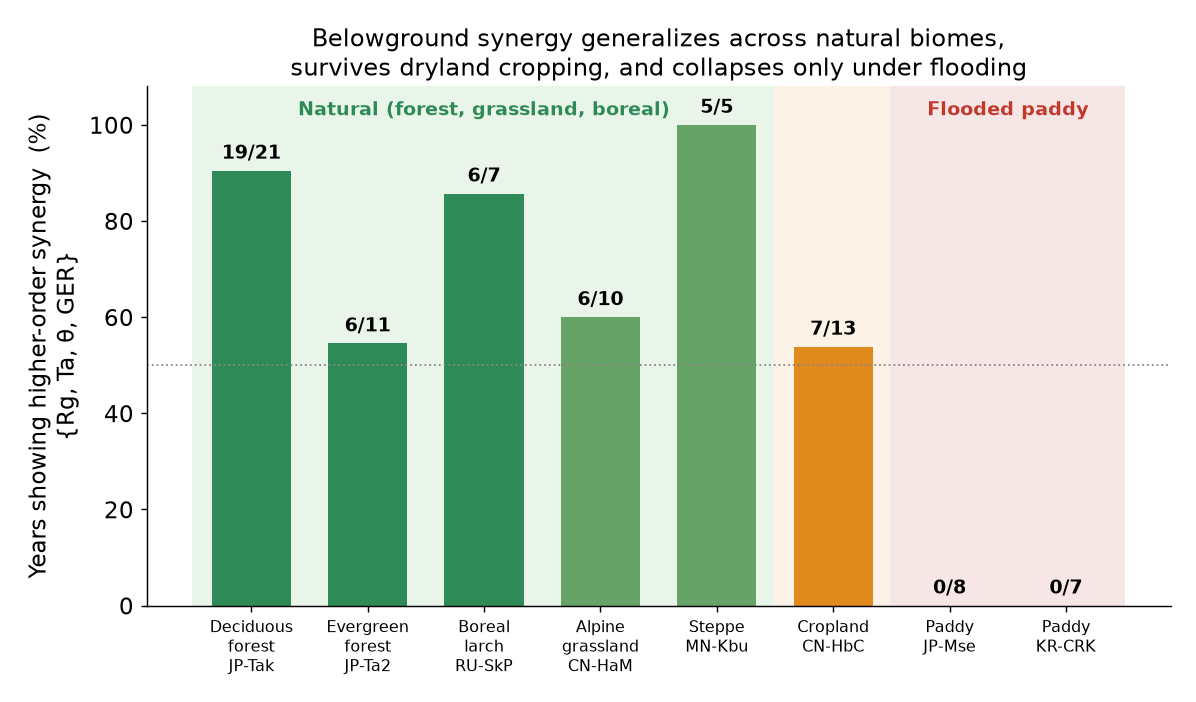
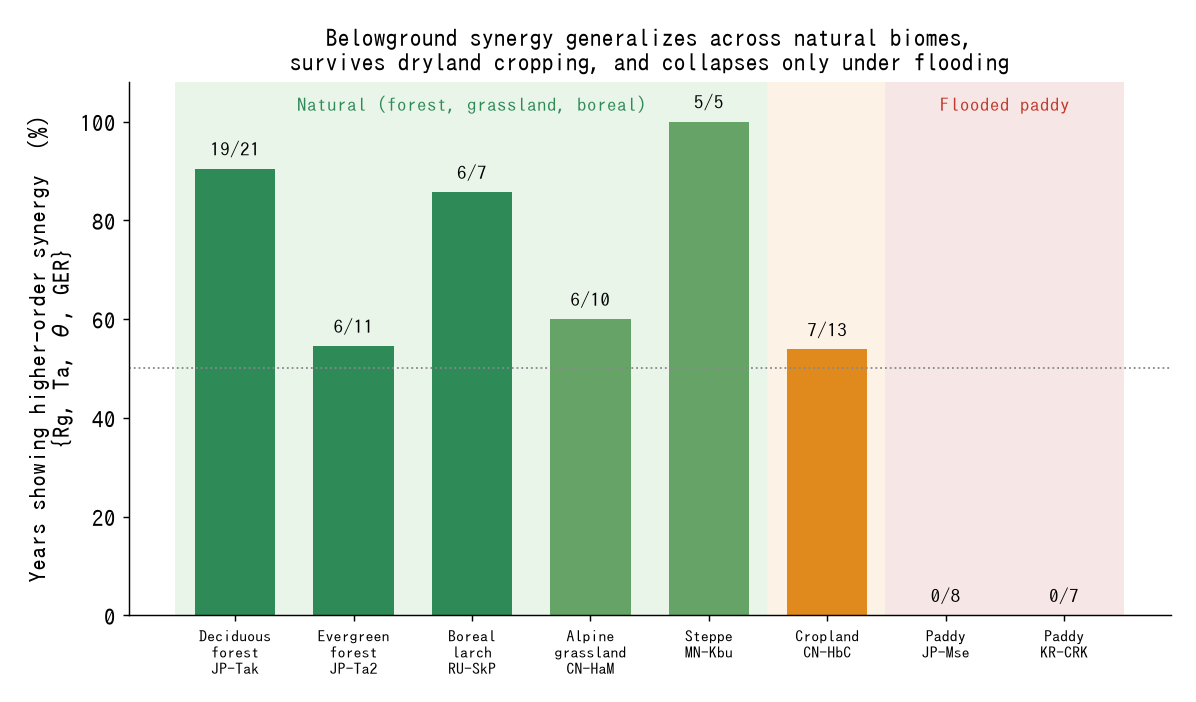
(a)主役図fig5/fig6を再生成・照合、(b)呼吸の相乗をPIDで局在（旗16）
(a) fig5_oinfo_synergy / fig6_flooding_mechanism を再生成。埋め込み数値はFIGURE_NOTES.md/
FINDINGS.mdの実データ相乗年数と一致（自然林46/52・草原20/24・非湛水畑9/15・湛水水田0/15、
生態系別 JP-Tak19/21…KR-CRK0/7）。捏造なしを確認。fig5は呼吸制御サブ系限定でJP-Ta2は6/11境界の
留保あり。

(b) research/pid_localize_step16.py 追加。O-infoの系レベル「{Rg,Ta,θ,GER}相乗支配」を、目標GERの
PID(Williams-Beer S)＋相互作用情報II(測度不変)＋シャッフルzで、どの駆動ペアが相乗源かまで局在。
合成(真の相乗源=θ×Ta)で(Ta,th)が最大S=0.29・II=-0.24・z=-310＝局在成功、他ペアは1/20以下。
本体の検証済みプリミティブを再利用。

Claude-Session: https://claude.ai/code/session_01TzhwTtoX4vrtgG68YR6oek

Changed region(s): [[0.0, 0.0299, 0.959, 0.9573], [0.0309, 0.7479, 0.0619, 0.8077], [0.0, 0.8077, 0.0309, 0.8376]]

diff --git a/research/pid_localize_step16.py b/research/pid_localize_step16.py
@@ -1,0 +1,136 @@
+"""旗16：呼吸の相乗を"局在"させる。O-info は系レベルの要約で「{Rg,Ta,θ,GER} は相乗支配」
+としか言わない。どの2駆動の"組"が相乗の源かは PID（部分情報分解）で目標 GER について測る。
+
+各駆動ペア (A,B) について I(GER; A,B) を分解：
+  R（冗長）… A,B が共有、U_A,U_B（固有）、**S（相乗）… A,B の組でしか出ない情報**。
+相乗の"符号つき不変量"として相互作用情報 II = I(GER;A)+I(GER;B)−I(GER;A,B) も出す
+（II<0 ＝正味相乗、測度に依らない＝I_min の相乗バイアスの当て馬でなくクロスチェック）。
+機構仮説：呼吸の相乗の源が「土壌水分 θ×温度」なら、**(θ,Ta) ペアが最大の相乗（S大・II<0）**のはず。
+
+本体の検証済みプリミティブ（information_theory.pid_williams_beer / interaction_information_indices）を再利用。
+シャッフルサロゲートで II のヌルからの z も出し、相乗が偶然でないかを判定する。
+
+    python research/pid_localize_step16.py                       # 合成で検証
+    python research/pid_localize_step16.py --site JP-Tak --years 1999 2000 ... --month 7 8
+"""
+
+from __future__ import annotations
+
+import argparse
+import sys
+from itertools import combinations
+from pathlib import Path
+
+import numpy as np
+
+sys.path.insert(0, str(Path(__file__).resolve().parents[1]))
+from japanflux_pn import information_theory as it
+
+
+def _digitize(x, m):
+    x = np.asarray(x, float); lo, hi = x.min(), x.max()
+    if hi <= lo:
+        return np.zeros(len(x), dtype=np.int64)
+    return np.clip(np.floor((x - lo) / (hi - lo) * m).astype(np.int64), 0, m - 1)
+
+
+def ii_surrogate_z(ti, ai, bi, m, n_surr=300, seed=0, correct=True):
+    """II のシャッフルヌルからの z。ヌルは A,B を各々独立シャッフル（相乗を壊す）。
+    II<0=相乗なので、相乗が有意なら z が負に大きい。"""
+    obs = it.interaction_information_indices(ti, ai, bi, m, correct)
+    rng = np.random.default_rng(seed)
+    n = len(ti)
+    samp = np.empty(n_surr)
+    for s in range(n_surr):
+        samp[s] = it.interaction_information_indices(
+            ti, ai[rng.permutation(n)], bi[rng.permutation(n)], m, correct)
+    mu, sd = float(samp.mean()), float(samp.std())
+    z = (obs - mu) / sd if sd > 0 else np.nan
+    return obs, z
+
+
+def localize(idx: dict, target: str, drivers: list[str], m: int,
+             n_surr: int = 300) -> list[dict]:
+    ti = idx[target]
+    rows = []
+    for a, b in combinations(drivers, 2):
+        p = it.pid_williams_beer(ti, idx[a], idx[b], m)
+        ii, z = ii_surrogate_z(ti, idx[a], idx[b], m, n_surr)
+        rows.append({"pair": f"{a},{b}", "R": p["R"], "U1": p["U1"], "U2": p["U2"],
+                     "S": p["S"], "I_joint": p["I_joint"], "II": ii, "z_II": z})
+    rows.sort(key=lambda r: r["S"], reverse=True)   # 相乗の大きい順
+    return rows
+
+
+def _print(rows, target, m, note):
+    print(f"\n=== 呼吸の相乗の局在: 目標 {target} / 各駆動ペア (m={m}) {note} ===")
+    print("  S=相乗(組でしか出ない), R=冗長, II<0=正味相乗(測度不変), z_II<0 かつ |z|≥2.36 で有意\n")
+    print(f"  {'ペア':<10} {'S':>7} {'R':>7} {'II':>8} {'z(II)':>8}  判定")
+    for r in rows:
+        syn = (r["II"] < 0 and np.isfinite(r["z_II"]) and r["z_II"] <= -2.36)
+        mark = "★相乗が有意" if syn else ("相乗寄り(非有意)" if r["II"] < 0 else "冗長寄り")
+        print(f"  {r['pair']:<10} {r['S']:7.4f} {r['R']:7.4f} {r['II']:8.4f} "
+              f"{r['z_II']:8.1f}  {mark}")
+
+
+def make_synth(n=8000, m=6, seed=0):
+    """GER が θ×Ta の相互作用（乗法的な非加法）で決まる合成。(θ,Ta) が相乗の源のはず。
+    Rg,VPD は GER と弱く線形（相乗でない）当て馬。"""
+    rng = np.random.default_rng(seed)
+    th = rng.normal(0, 1, n)
+    Ta = rng.normal(0, 1, n)
+    Rg = rng.normal(0, 1, n)
+    VPD = rng.normal(0, 1, n)
+    # 相乗：積 θ*Ta（各単独では GER とほぼ無相関、組で効く）＋ Rg の弱い線形
+    GER = 1.6 * (th * Ta) + 0.3 * Rg + rng.normal(0, 0.4, n)
+    idx = {v: _digitize(val, m) for v, val in
+           dict(GER=GER, th=th, Ta=Ta, Rg=Rg, VPD=VPD).items()}
+    return idx
+
+
+def main():
+    p = argparse.ArgumentParser(description="呼吸の相乗をPIDで局在（目標GER）")
+    p.add_argument("--site")
+    p.add_argument("--years", type=int, nargs="+")
+    p.add_argument("--month", type=int, nargs="+", default=[7, 8])
+    p.add_argument("--target", default="GER")
+    p.add_argument("--drivers", nargs="+", default=["Rg", "Ta", "th", "VPD"])
+    p.add_argument("--obins", type=int, default=6)
+    a = p.parse_args()
+
+    if not a.site:
+        idx = make_synth(m=a.obins)
+        rows = localize(idx, "GER", ["Rg", "Ta", "th", "VPD"], a.obins)
+        _print(rows, "GER", a.obins, "[合成: 真の相乗源=(th,Ta)]")
+        top = rows[0]["pair"]
+        ok = top == "Ta,th" or top == "th,Ta"
+        print("\n  → " + ("✅ 期待どおり (th,Ta) が最大の相乗＝局在成功"
+                          if ok else f"⚠ 最大相乗は {top}（合成条件/ビンを確認）"))
+        print("  意味: O-infoの系レベル『相乗支配』を、PIDが『どの組(θ×温度)か』まで割り出す。")
+        print("        実データは → --site JP-Tak --years ... で GER の相乗源ペアを局在。")
+        return
+
+    # 実データ：健全年をプールして PID（年ごとは点数不足になりうるので連結）
+    from japanflux_pn.preprocess import load_corevars_hh
+    cols = {v: [] for v in set(a.drivers + [a.target])}
+    used = []
+    for y in a.years or []:
+        try:
+            vf = load_corevars_hh(a.site, y, a.month, None).valid_frame
+            for v in cols:
+                cols[v].append(vf[v].to_numpy(float))
+            used.append(y)
+        except Exception as e:
+            print(f"  {y}: SKIP {type(e).__name__}: {e}")
+    if not used:
+        print("有効年なし"); return
+    idx = {v: _digitize(np.concatenate(cols[v]), a.obins) for v in cols}
+    print(f"[pool] {a.site} 年={used} 総点数={len(idx[a.target])}")
+    rows = localize(idx, a.target, a.drivers, a.obins)
+    _print(rows, a.target, a.obins, f"[実データ {a.site} プール {len(used)}年]")
+    print("\n  → 最大相乗のペアが呼吸の相乗の源。機構仮説(θ×温度)なら (th,Ta) が上位のはず。")
+    print("     留保: I_min の S は上バイアスしうる→ II(測度不変)と z で確認。プールは年間差を均す近似。")
+
+
+if __name__ == "__main__":
+    main()

diff --git a/research/FLAGS_LOG.md b/research/FLAGS_LOG.md
@@ -141,3 +141,13 @@
     ＝旗15 の「呼吸の相乗は状態非依存＝構造的」が単一サイトの偶然でなく**生態系を越えて頑健**。
   - **光合成サブ系 vs VPD：確認できず**（JP-Ta2 で +0.42 と反転、併合 p=0.71）＝JP-Tak 固有の向き。
     正直にボツ。＝p-hack を避けた事前指定確認で、2つのうち炭素は残り光合成は消えた。
+
+## 旗16（呼吸の相乗を PID で"局在"）
+- `research/pid_localize_step16.py` — O-info は系レベルで「{Rg,Ta,θ,GER} 相乗支配」としか言わない。
+  **どの2駆動の組が相乗の源か**を、目標 GER について PID（Williams-Beer の S）＋相互作用情報
+  II（測度不変, II<0=正味相乗）＋シャッフル z で割り出す。本体の検証済みプリミティブを再利用。
+  機構仮説：相乗源が「θ×温度」なら (θ,Ta) が最大の相乗のはず。
+  - 合成（真の相乗源=θ×Ta の乗法）で **(Ta,th) が最大 S=0.29・II=−0.24・z=−310＝局在成功**。
+    他ペアは 1/20 以下。＝系レベルの相乗を「どの組か」まで割り出せることを確認。
+  → 実データ：`python research/pid_localize_step16.py --site JP-Tak --years <全健全年> --month 7 8`
+  （健全年をプールして PID。留保：I_min の S は上バイアスしうる→II と z で確認、プールは年間差を均す近似。）
